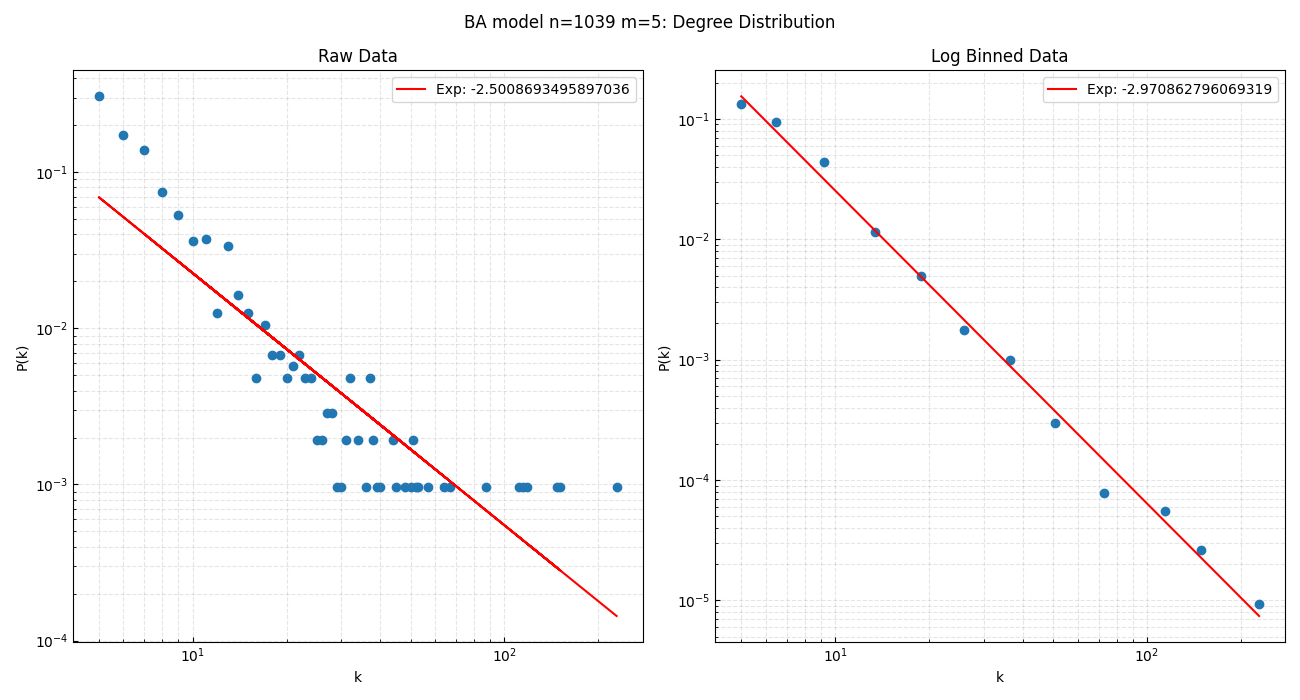
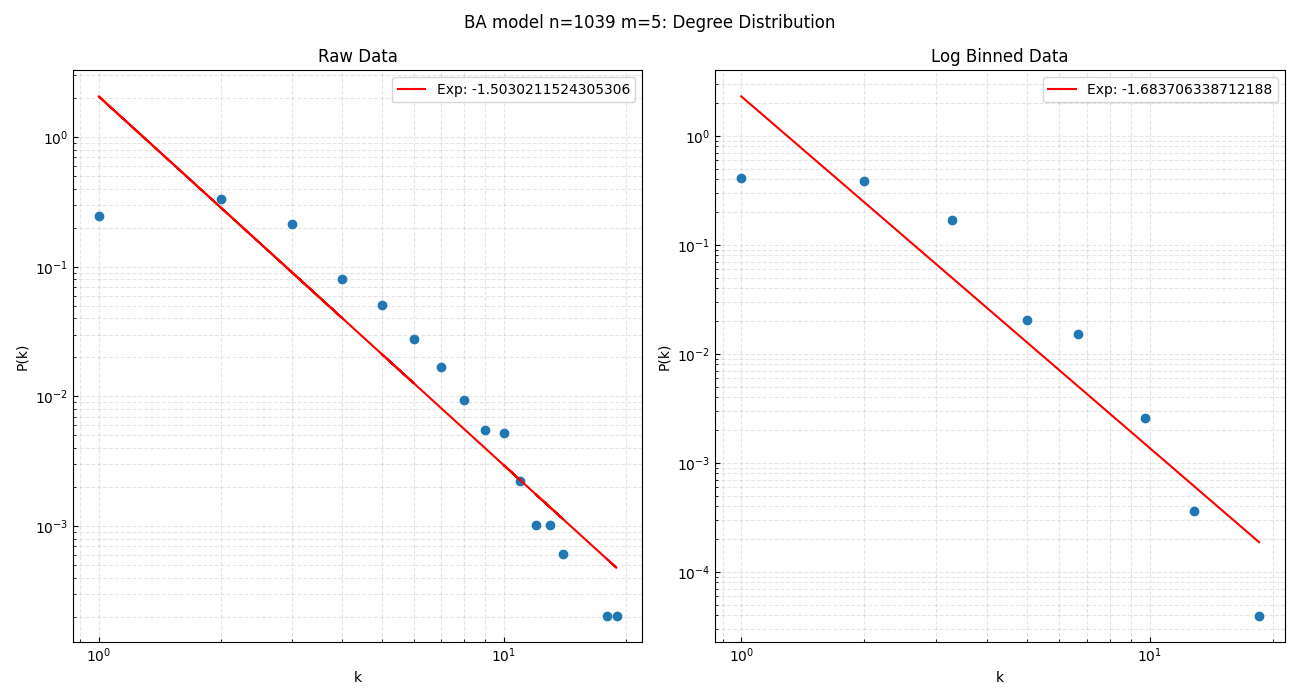
new BA model n4941 m2 and m1 to imitate powergrid, does not work great bc powergrid is weird

diff --git a/A1.py b/A1.py
@@ -80,12 +80,11 @@ def sanity_check(graph, details=False):
 
 
 
-def load_matrix(filename="./data/metabolic.edgelist.txt", AB_graph=False):
+def load_matrix(filename="./data/metabolic.edgelist.txt"):
     t1 = time.time()
     edgelist = np.loadtxt(filename, dtype=np.int32)
 
-    if not AB_graph:
-        edgelist = make_symmetric(edgelist)
+    edgelist = make_symmetric(edgelist)
     
     # Create the graph in CSC form
     rows = edgelist[:,0]
@@ -98,8 +97,7 @@ def load_matrix(filename="./data/metabolic.edgelist.txt", AB_graph=False):
     graph = sparse.coo_matrix((data ,(rows, cols)), shape=(n, n), dtype=np.int32)
     A = graph.tocsr()
 
-    if not AB_graph:
-        A = graph + graph.T
+    A = graph + graph.T
 
     print(f"A nnz: {A.nnz}")
     print(f"A shape: {A.shape}")
@@ -124,6 +122,11 @@ def a_plot_degree_distrib(A, model_name):
     print(f"A shape: {A.shape}")
     print(f"\nTotal degree: {total_degree}")
     print(f"Average degree: {total_degree / A.shape[0]}")
+
+    with open(f"./figs/{model_name}/model_stats.txt", "w") as outfile:
+        outfile.write(f"A shape: {A.shape}\n")
+        outfile.write(f"Total degree: {total_degree}\n")
+        outfile.write(f"Average degree: {total_degree / A.shape[0]}\n")
 
     N = A.shape[0]
 
@@ -575,16 +578,16 @@ def main():
 
     print("\n\n")
 
-    # G = load_matrix("./data/metabolic.edgelist.txt")
+    # G = load_matrix("./data/powergrid.edgelist.txt")
     # G = load_matrix("./data/collaboration.edgelist.txt")
     # G = load_matrix("./data/email.edgelist.txt")
     # G = load_matrix("./data/AB_ensure_n1039_m5.edgelist.txt")
 
-    G = generate_AB_graph_ensure_m_edges(1039, 5)
+    G = generate_AB_graph_ensure_m_edges(4941, 1)
 
     # G = load_matrix("./data/AB_ensure_n2018_m2.edgelist.txt")
 
-    model_name = "BA model n=1039 m=5"
+    model_name = "BA model n=4941 m=1"
 
     pathlib.Path(f"./figs/{model_name}").mkdir(parents=True, exist_ok=True)
 

diff --git a/ABmodel.py b/ABmodel.py
@@ -198,6 +198,8 @@ def generate_AB_graph(n, m):
 
 # Complexity: O(n^2) but much quicker than randomly picking candidates in practice
 def generate_AB_graph_ensure_m_edges(n, m):
+    t1 = time.time()
+
 
     # Initialize our data structures
 
@@ -293,6 +295,9 @@ def generate_AB_graph_ensure_m_edges(n, m):
 
     # Generate the sparse matrix only at the end, from the coordinate lists
     graph = coo_matrix((data, (row, col)),  shape=(n, n), dtype=np.int32)
+
+    t2 = time.time()
+    print(f"Time to generate AB model(n={n}, m={m}) with version 2: {t2-t1} s")
 
     return graph.tocsr()
 
